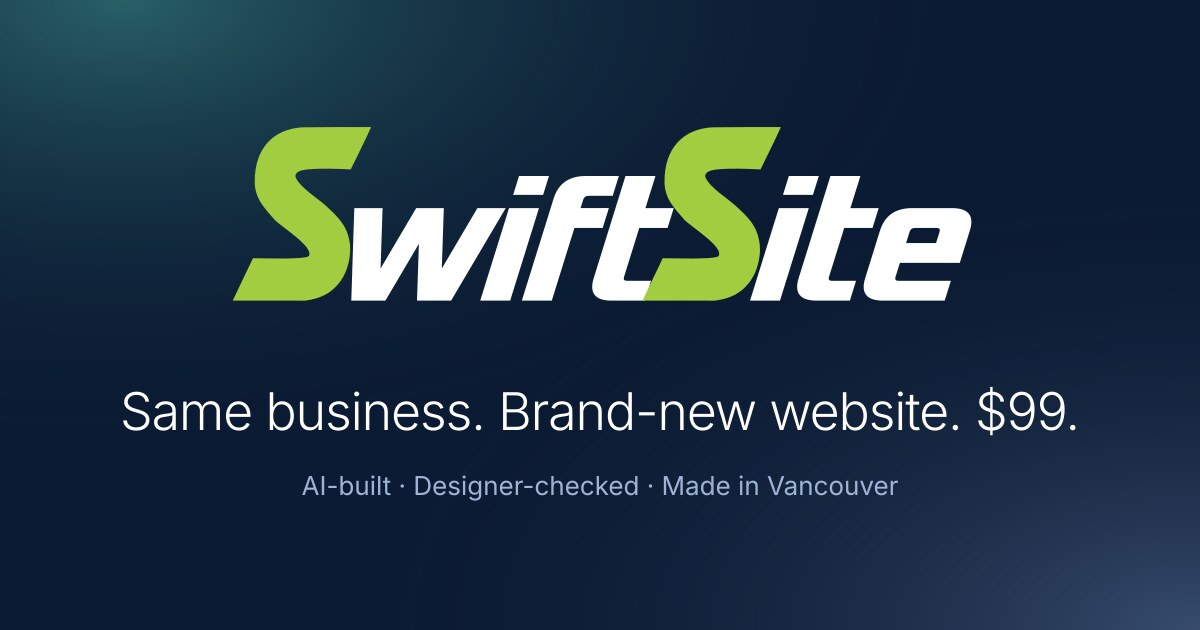
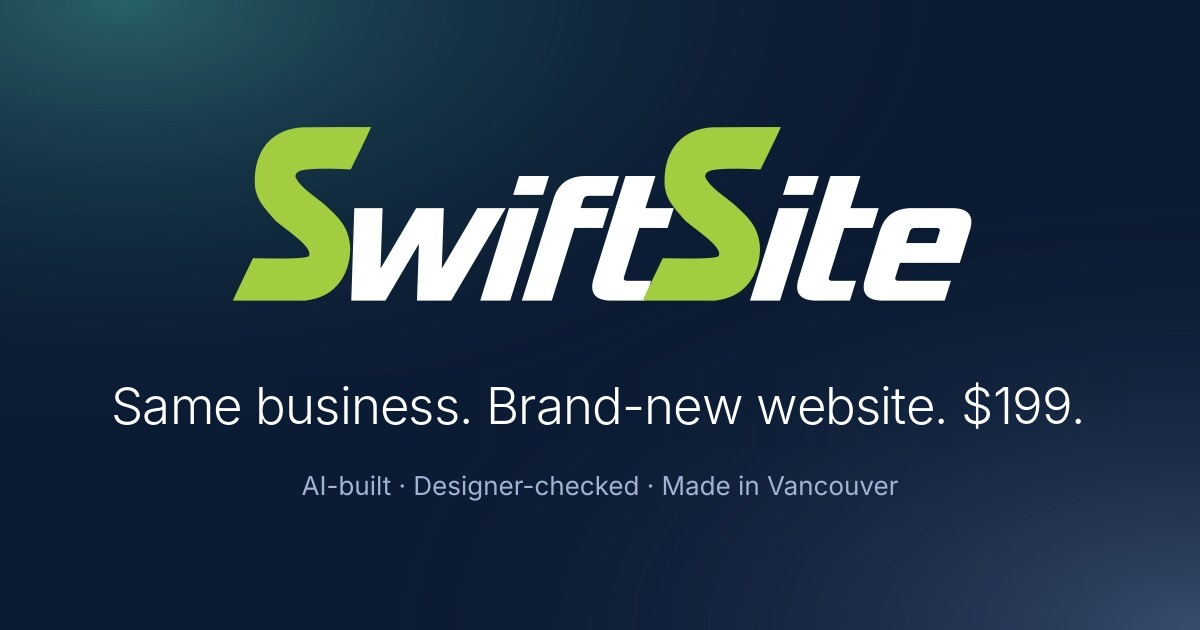
OG share image and README: $99 -> $199
Claude-Session: https://claude.ai/code/session_01MHoLWpaZGTtQh3KKx3c395

Changed region(s): [[0.0925, 0.6032, 0.8942, 0.6937]]

diff --git a/src/lib/site.ts b/src/lib/site.ts
@@ -1,3 +1,3 @@
 export const SITE_URL = "https://swiftsite.ca";
 export const CONTACT_EMAIL = "info@swiftsite.ca";
-export const OG_IMAGE = `${SITE_URL}/og-image.jpg`;
+export const OG_IMAGE = `${SITE_URL}/og-image.jpg?v=199`;

diff --git a/README.md b/README.md
@@ -1,6 +1,6 @@
 # SwiftSite Website Showcase
 
-Build the SwiftSite marketing homepage (single page, English). SwiftSite is a Canadian service: AI rebuilds a small business's existing website into two new designs; they pick one for $99 CAD. Build ONLY the homepage now — first build, no testing/auditing passes.
+Build the SwiftSite marketing homepage (single page, English). SwiftSite is a Canadian service: AI rebuilds a small business's existing website into two new designs; they pick one for $199 CAD. Build ONLY the homepage now — first build, no testing/auditing passes.
 
 DESIGN TOKENS (follow exactly)
 - Font: Inter from Google Fonts, weights 300/400/500/600. Body weight 300, font-feature-settings "ss01". Numbers use "tnum".
@@ -13,13 +13,13 @@ DESIGN TOKENS (follow exactly)
 
 SECTIONS (in order)
 1. NAV: logo (dark rounded square with a mint "S" stroke + wordmark "SwiftSite" 20px/600), links How it works / Work / Pricing / FAQ (anchor links), right button "Get my free preview". Links hide on mobile.
-2. HERO (two columns, stack on mobile). Left: small pill badge with green dot "AI-built · Designer-checked · Made in Vancouver". H1 three lines: "Same business." / "Brand-new website." / "$99." (the $99 line weight 500). Lead 19px: "AI rebuilds your current website into two fresh designs, using the words and photos you already have. Up to 4× faster than your old site." Then a pill-shaped URL input bar (white, border #c9d6e6, big soft shadow, globe icon, placeholder "yourbusiness.ca", button "See my new site") max-width 560px; on mobile input and button stack full-width. Small text: "Free preview · No credit card · You only pay if you love it". Right column (decorative, aria-hidden): a tilted grey wireframe card labelled "Your current site", and two overlapping white browser cards "Version A — Clean & modern" (navy hero block, mint pill button, 3 tiles) and "Version B — Warm & friendly" (cream #fbf4ea, brown text bars, orange #e2703a pill, photo block), plus a small floating stat chip: green ring with "[96]", "PageSpeed score", "was [38] on the old site".
+2. HERO (two columns, stack on mobile). Left: small pill badge with green dot "AI-built · Designer-checked · Made in Vancouver". H1 three lines: "Same business." / "Brand-new website." / "$199." (the $199 line weight 500). Lead 19px: "AI rebuilds your current website into two fresh designs, using the words and photos you already have. Up to 4× faster than your old site." Then a pill-shaped URL input bar (white, border #c9d6e6, big soft shadow, globe icon, placeholder "yourbusiness.ca", button "See my new site") max-width 560px; on mobile input and button stack full-width. Small text: "Free preview · No credit card · You only pay if you love it". Right column (decorative, aria-hidden): a tilted grey wireframe card labelled "Your current site", and two overlapping white browser cards "Version A — Clean & modern" (navy hero block, mint pill button, 3 tiles) and "Version B — Warm & friendly" (cream #fbf4ea, brown text bars, orange #e2703a pill, photo block), plus a small floating stat chip: green ring with "[96]", "PageSpeed score", "was [38] on the old site".
 3. TRUST STRIP on #f6f9fc with top/bottom hairlines, 4 items with thin blue line icons: "Every site checked by a real designer", "Based in Vancouver, BC", "20+ years designing websites", "Your domain and content stay yours".
 4. HOW IT WORKS (id how): eyebrow "HOW IT WORKS" (12px, uppercase, blue, 500), H2 "No meetings. No forms to fill. No designer back-and-forth." 3 cards: 01 "Paste your website" — "Our AI reads your current site and pulls your services, photos, hours and contact details. You don't prepare anything." / 02 "Get two new designs" — "Two real, clickable websites in two different styles, checked by a designer before they reach your inbox." / 03 "Pick one. Go live." — "Choose your favourite, ask for tweaks by email, and we put it live on your domain. Your email keeps working."
 5. TWO DIRECTIONS (id work) — dark #0b1b33 section, white text. Eyebrow (mint) "TWO DIRECTIONS", H2 "Every customer sees two real versions. Then they choose." Right of heading: two toggle pill buttons "Version A" / "Version B" (active = filled dark/white style). Below, a browser-frame mockup (#13284a, three dots) that SWITCHES content with the toggle: A = clean navy hero with "[Their headline, rewritten from their site]", mint "Book now" pill and 3 light tiles; B = warm cream layout with "[Same content, a warmer feel]", "[Their photo]" block, orange "Call us" pill. Side column of dark cards: "Study 1 of 6" / "[Client name] · [Industry]" / "[City], BC"; PageSpeed (mobile) "[38] → [96]" (38 in #ff9b7a, 96 in mint) with note changing per version ("Version A · Clean & modern direction" / "Version B · Warm & friendly direction"); mint card with check icon "Client chose Version [B]". Then sub-heading "Their pick, now live" + link "See all work →" and a 3-column grid of dark cards with "[Site screenshot]" placeholder image area and "[Client name]" / "[Industry] · [City]". Keep the data for studies and launched sites in a typed array (src/data/work.ts) so 6 studies can be added later, each with versionA/versionB/beforeScore/afterScore/chosen.
 6. SPEED: two columns. Left eyebrow "BUILT FOR SPEED", H2 "A faster site means more people stay, call and book.", lead "SwiftSite websites are lean, modern code with no plugins slowing them down. They load in a blink on any phone." Right card: two bars — "Typical older website [4.8s]" full-width peach #ffb199; "SwiftSite [1.2s]" 25% width green. Caption "Load time on mobile. Replace with measured results before launch."
-7. PRICING (id pricing) on #f6f9fc, centred heading "PRICING" / "One simple price." Card 1 (white): "New website", "$99" 64px weight 300 + "CAD, one time", checklist with green checks: Two complete designs to choose from / Your words, photos and pages moved over / Mobile-ready and fast-loading / [2] rounds of changes by email / Connected to your domain, email untouched; full-width button "Get my free preview". Card 2 (dark #0b1b33): "Care plan", "from $15/month", "Hosting, security and small updates, so your site stays fast and current. [Plan details coming soon]". Under both: dashed-border white bar "Want more customers to find you?" / "Add SEO after your new site goes live." with ghost button "Ask about SEO".
-8. FAQ (id faq), max-width 840px, accordion (first open): Is it really $99? → "Yes. AI does the heavy lifting, so we can rebuild a small business website for a fraction of the usual cost. You see both designs before you pay anything." / What if I don't like either version? → "Then you pay nothing. No credit card is needed for the preview." / Will my email or domain break? → "No. Your domain stays where it is and your email keeps working. We only point your website to the new design." / Who checks the AI's work? → "A real designer reviews every site before it is sent to you." / Can you add online booking or a store? → "SwiftSite rebuilds informational websites. If you already use a booking or ordering system, we link to it from your new site. Custom features are quoted separately."
+7. PRICING (id pricing) on #f6f9fc, centred heading "PRICING" / "One simple price." Card 1 (white): "New website", "$199" 64px weight 300 + "CAD, one time", checklist with green checks: Two complete designs to choose from / Your words, photos and pages moved over / Mobile-ready and fast-loading / [2] rounds of changes by email / Connected to your domain, email untouched; full-width button "Get my free preview". Card 2 (dark #0b1b33): "Care plan", "from $15/month", "Hosting, security and small updates, so your site stays fast and current. [Plan details coming soon]". Under both: dashed-border white bar "Want more customers to find you?" / "Add SEO after your new site goes live." with ghost button "Ask about SEO".
+8. FAQ (id faq), max-width 840px, accordion (first open): Is it really $199? → "Yes. AI does the heavy lifting, so we can rebuild a small business website for a fraction of the usual cost. You see both designs before you pay anything." / What if I don't like either version? → "Then you pay nothing. No credit card is needed for the preview." / Will my email or domain break? → "No. Your domain stays where it is and your email keeps working. We only point your website to the new design." / Who checks the AI's work? → "A real designer reviews every site before it is sent to you." / Can you add online booking or a store? → "SwiftSite rebuilds informational websites. If you already use a booking or ordering system, we link to it from your new site. Custom features are quoted separately."
 9. FINAL CTA (id start) on #f6f9fc with two soft blurred blobs at the bottom: centred H2 "See your new website before you spend a dollar.", the same URL input bar, small text "Two designs in your inbox in [48 hours] · Free · No credit card".
 10. FOOTER: "SwiftSite", "Brand-new websites for Canadian small businesses.", "Vancouver, BC · [hello@domain]", anchor links, "© 2026 SwiftSite".
 
